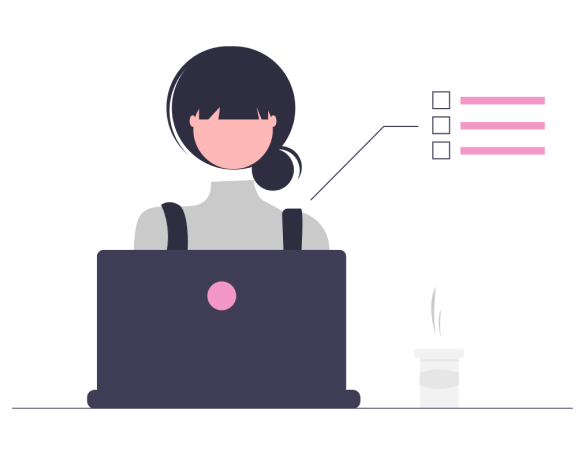
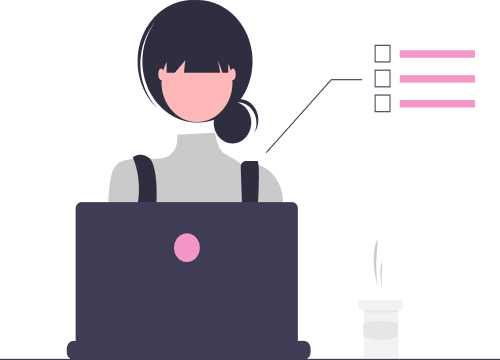
responsive de section present y conocim

diff --git a/css/styles.css b/css/styles.css
@@ -337,17 +337,52 @@ footer a{
 
 @media only screen and (max-width: 1100px){
     
+    /*section presentacion*/
     nav{
         visibility: hidden;
     }
-    .imagen{
+    .presentacion{
+        display: flex;
+        flex-direction: column;
+        align-items: center;
+        padding:0;
+        margin:0 auto;
+        text-align: center;
         
-        visibility: hidden;
     }
-    #imagen{
-        background-image: url('../img/css.png');
-        background-repeat: no-repeat;
-        width:300px;
-        height:300px;
+       .titulocontenedor h1, .presentacion h2, .bold, .titulo, p.bajada{
+        text-align: center;
+        padding:0;
+        margin:0 auto;
     }
+    .titulocontenedorulo{
+        padding:0;
+        margin:0;
+    }
+    .presentacion div.titulo{
+        justify-content: center;
+        text-align: center;
+    }
+    
+    .titulocontenedor{
+        margin:0 auto;
+        padding:0;
+    }
+
+    .img-portada{
+        margin:0 auto;
+        width:450px;
+        height:350px;
+        margin-top:50px;
+        
+    }
+
+
+    /*section conocimientos*/
+
+    .wrapper{
+        margin:100px;
+  }
+
+  
 }

diff --git a/index.html b/index.html
@@ -45,7 +45,7 @@
         </section>
         <section id="conocimientos" class="conocimientos">    <!--Sección de conocimientos/ habilidades-->
             <h2>Mis conocimientos</h2>
-            <p>Estas son las tecnologías </p>
+            <p>Las siguientes son tecnologías de desarrollo frontend que aprendí. ¡También son mis favoritas! </p>
             <div class="conocimientosContainer">
                 <div class="wrapper">
 
@@ -104,7 +104,7 @@
 
             <section id="conocimientos" class="conocimientos">   
                 <h2>Mis proyectos</h2>
-                <p>Lorem ipsum dolor sit amet consectetur adipisicing elit. Eaque quo nobis voluptatum tenetur! Id, nesciunt?</p>
+                <p>Puedes ver mis proyectos donde implementé mis conocimientos en <strong>tecnología</strong>. ¡Que lo disfrutes! Realmente fue un arduo trabajo.</p>
                 <div class="conocimientosContainer">
                     <div class="wrapper">
     
